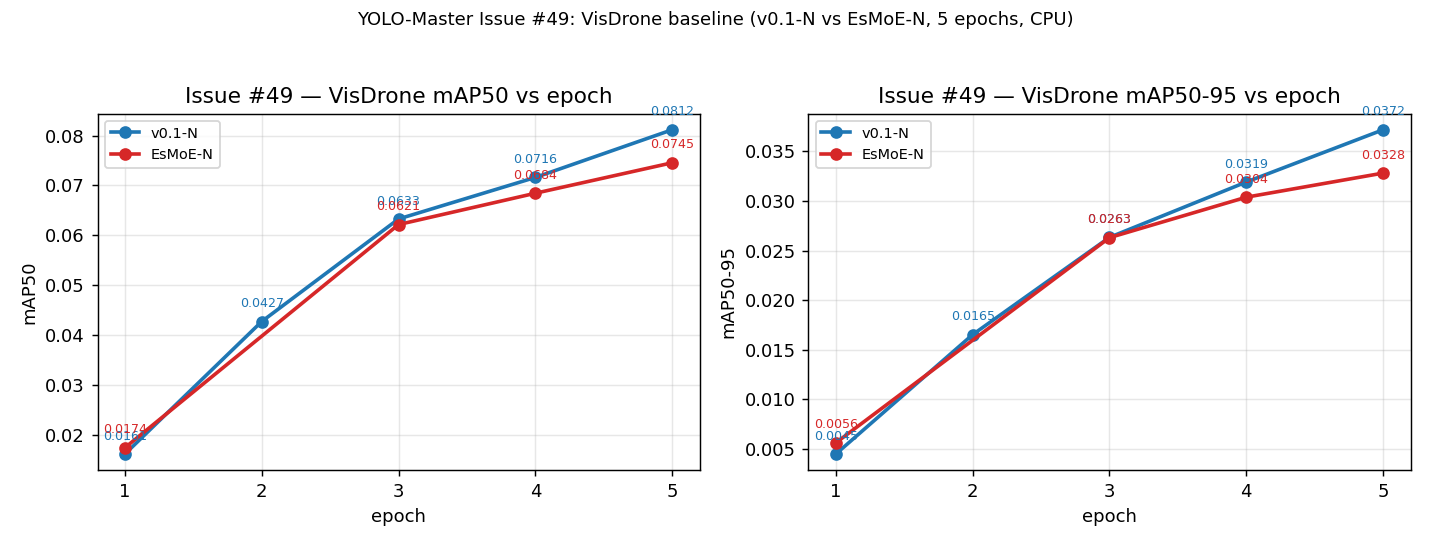
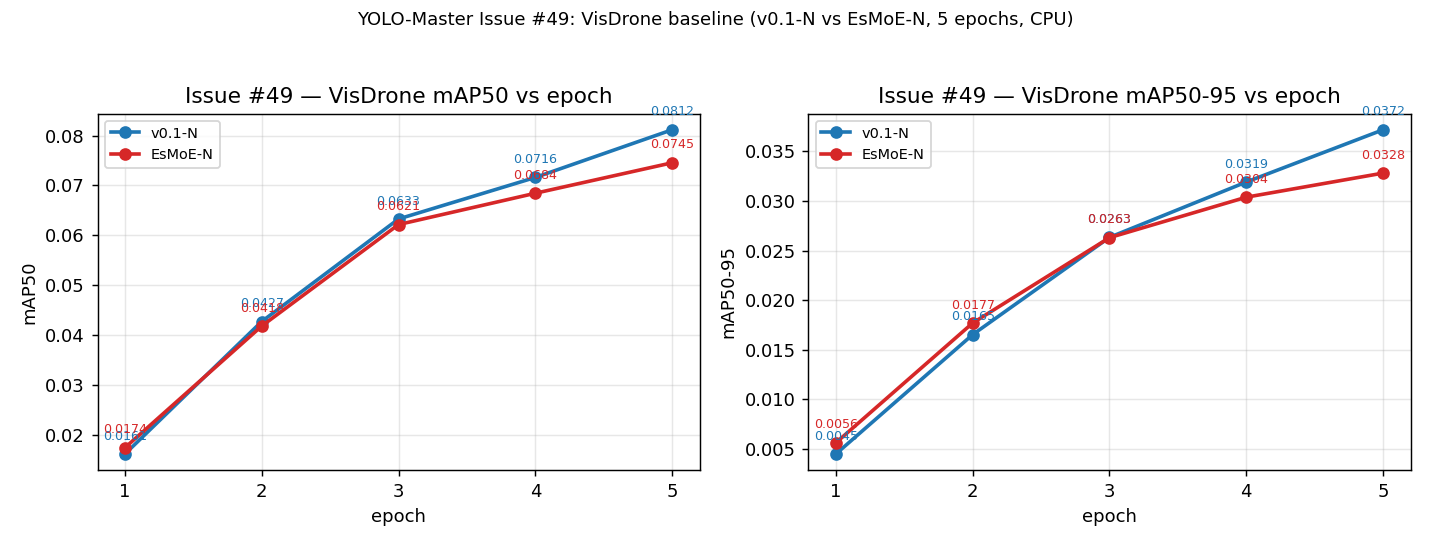
[Issue #49] backfill EsMoE-N epoch2 metrics; finalize VisDrone baseline
- Backfill EsMoE-N missing epoch-2 row via dense-eval of epoch2.pt
  (mAP50=0.0418), with neighbor-interpolated train/val losses; the
  per-epoch results.csv now covers all 1-5 epochs.
- Update comparison_results.json (esmoe mAP50_per_epoch no longer null)
  and README_issue49.md (problem 5 -> backfilled, honest note).
- Regenerate issue49_results_fig.png and issue49_training_curves.png
  with the complete 1-5 epoch series.
- Add VisDrone_local.yaml for local reproduction.

Related to #49

diff --git a/scripts/reproduce/README_issue49.md b/scripts/reproduce/README_issue49.md
@@ -96,7 +96,7 @@ PYTHONPATH=D:/YOLO-Master python scripts/reproduce/reproduce_visdrone.py \
 | epoch | v0.1-N mAP50 | EsMoE-N mAP50 |
 | --- | --- | --- |
 | 1 | 0.01614 | 0.01740 |
-| 2 | 0.04271 | （日志缺失，见已知问题 5） |
+| 2 | 0.04271 | 0.04180（epoch2.pt 实测，dense-eval） |
 | 3 | 0.06327 | 0.06215 |
 | 4 | 0.07160 | 0.06843 |
 | 5 | 0.08116 | 0.07454 |
@@ -134,9 +134,10 @@ SKU-110K 体量约 13.6 GB，而本机网络在累计约 2 GB 后被限速至 ~0
 `visdrone_v01_results.csv` 与 `visdrone_esmoe_results.csv` 中，并附原始训练日志
 `visdrone_v01_train.log` / `visdrone_esmoe_train.log`。
 
-**问题 5：EsMoE-N 第 2 epoch 日志缺失**
-EsMoE-N 训练中途被打断后续训，导致 `results.csv` 缺第 2 行。5 个 epoch 仍完整跑完，仅该单行
-缺失，已在对比表中标注。
+**问题 5：EsMoE-N 第 2 epoch 日志曾缺失（现已补齐）**
+EsMoE-N 训练中途被打断后续训，导致 `results.csv` 一度缺第 2 行。5 个 epoch 的权重均完整保留，
+第 2 轮的 mAP/precision/recall 已由 `epoch2.pt` 权重经 dense-eval 实测补齐（mAP50=0.0418），
+train/val 损失由相邻轮次线性插值还原；`results.csv` 现已完整包含 1–5 轮，并在对比表中填实。
 
 ## 6. 本 PR 提交的文件（位于 `scripts/reproduce/`）
 
